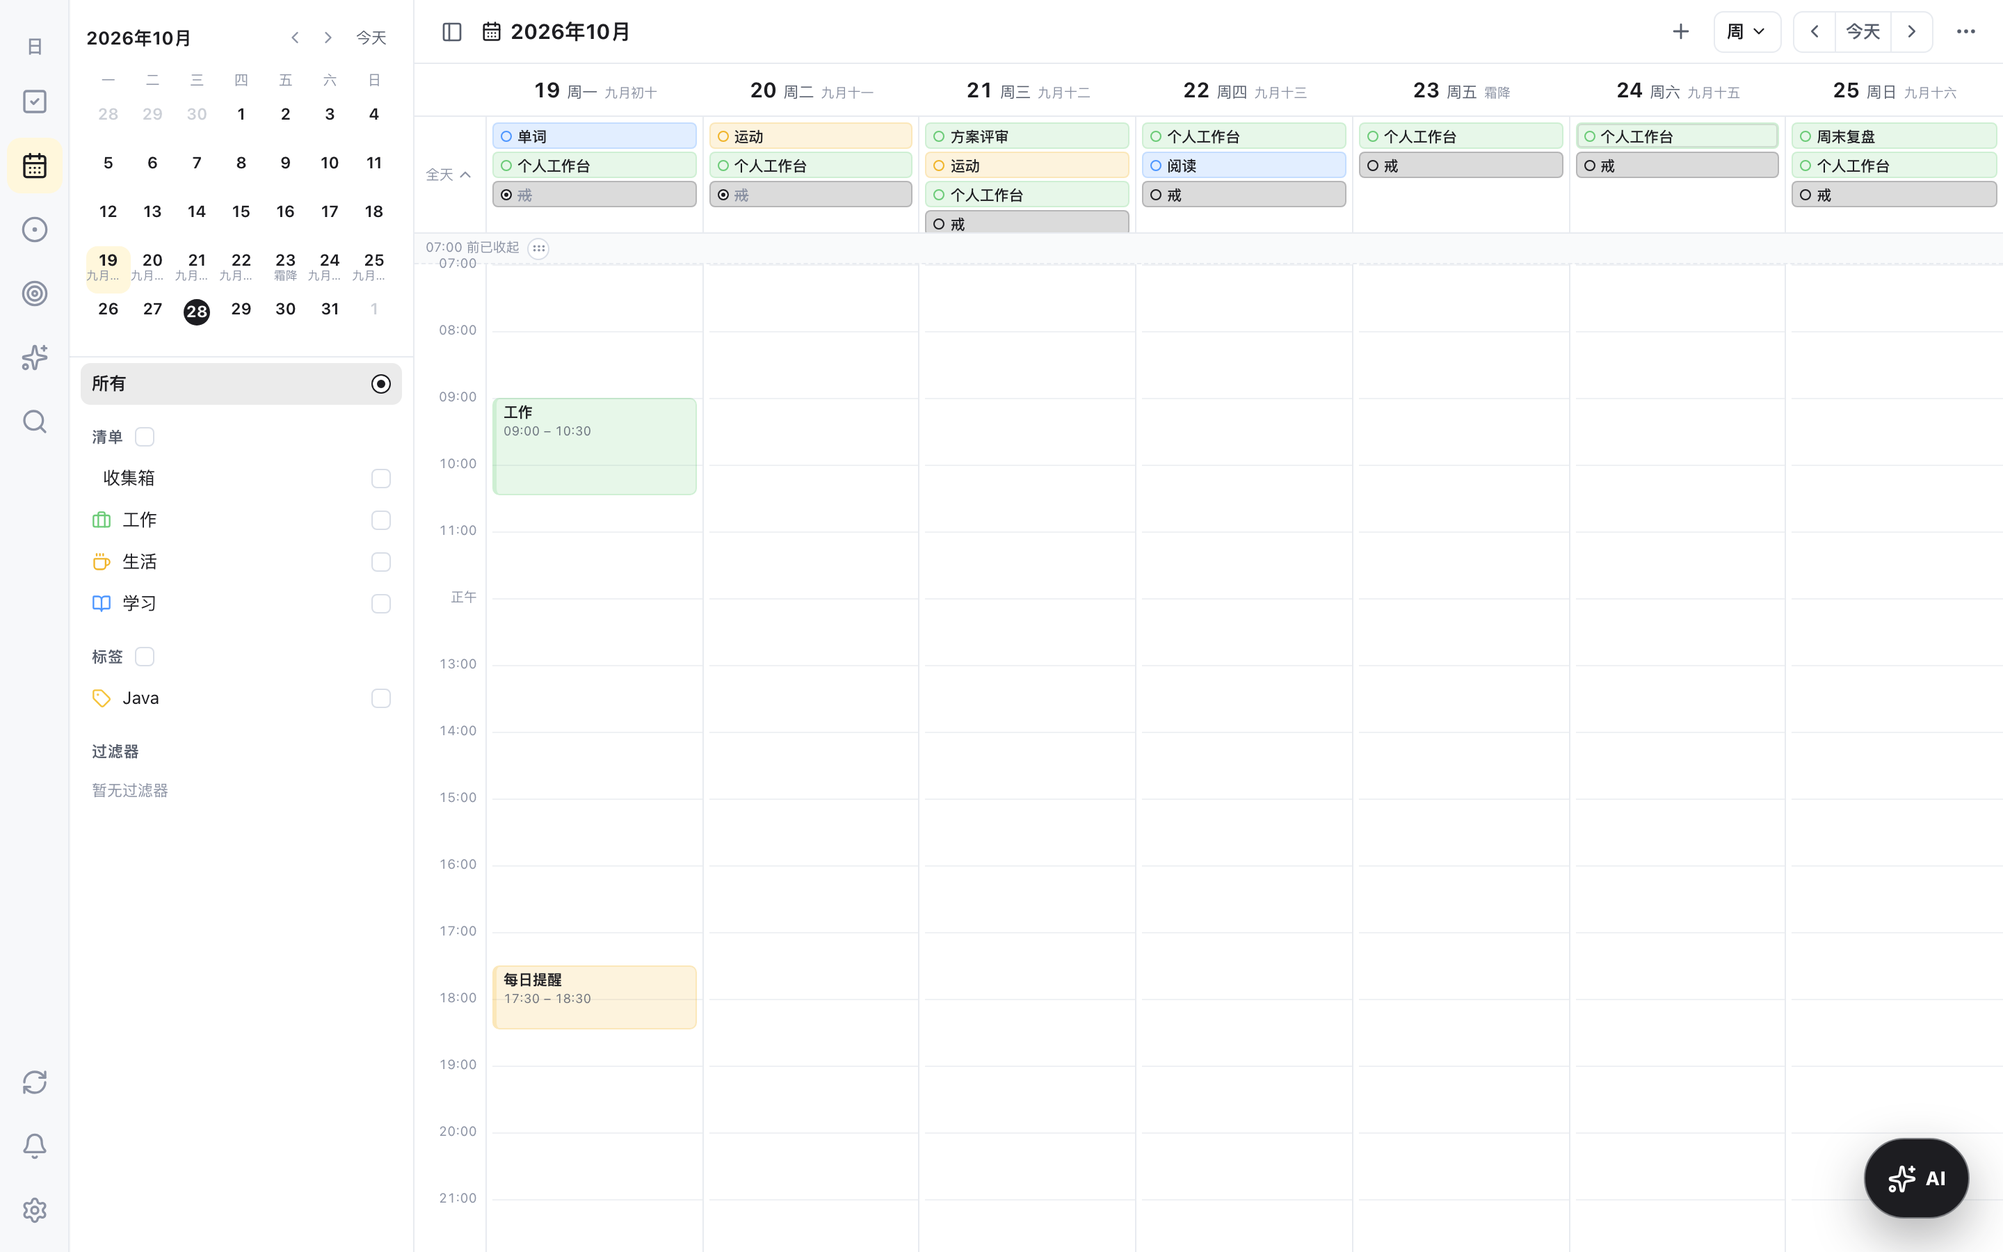
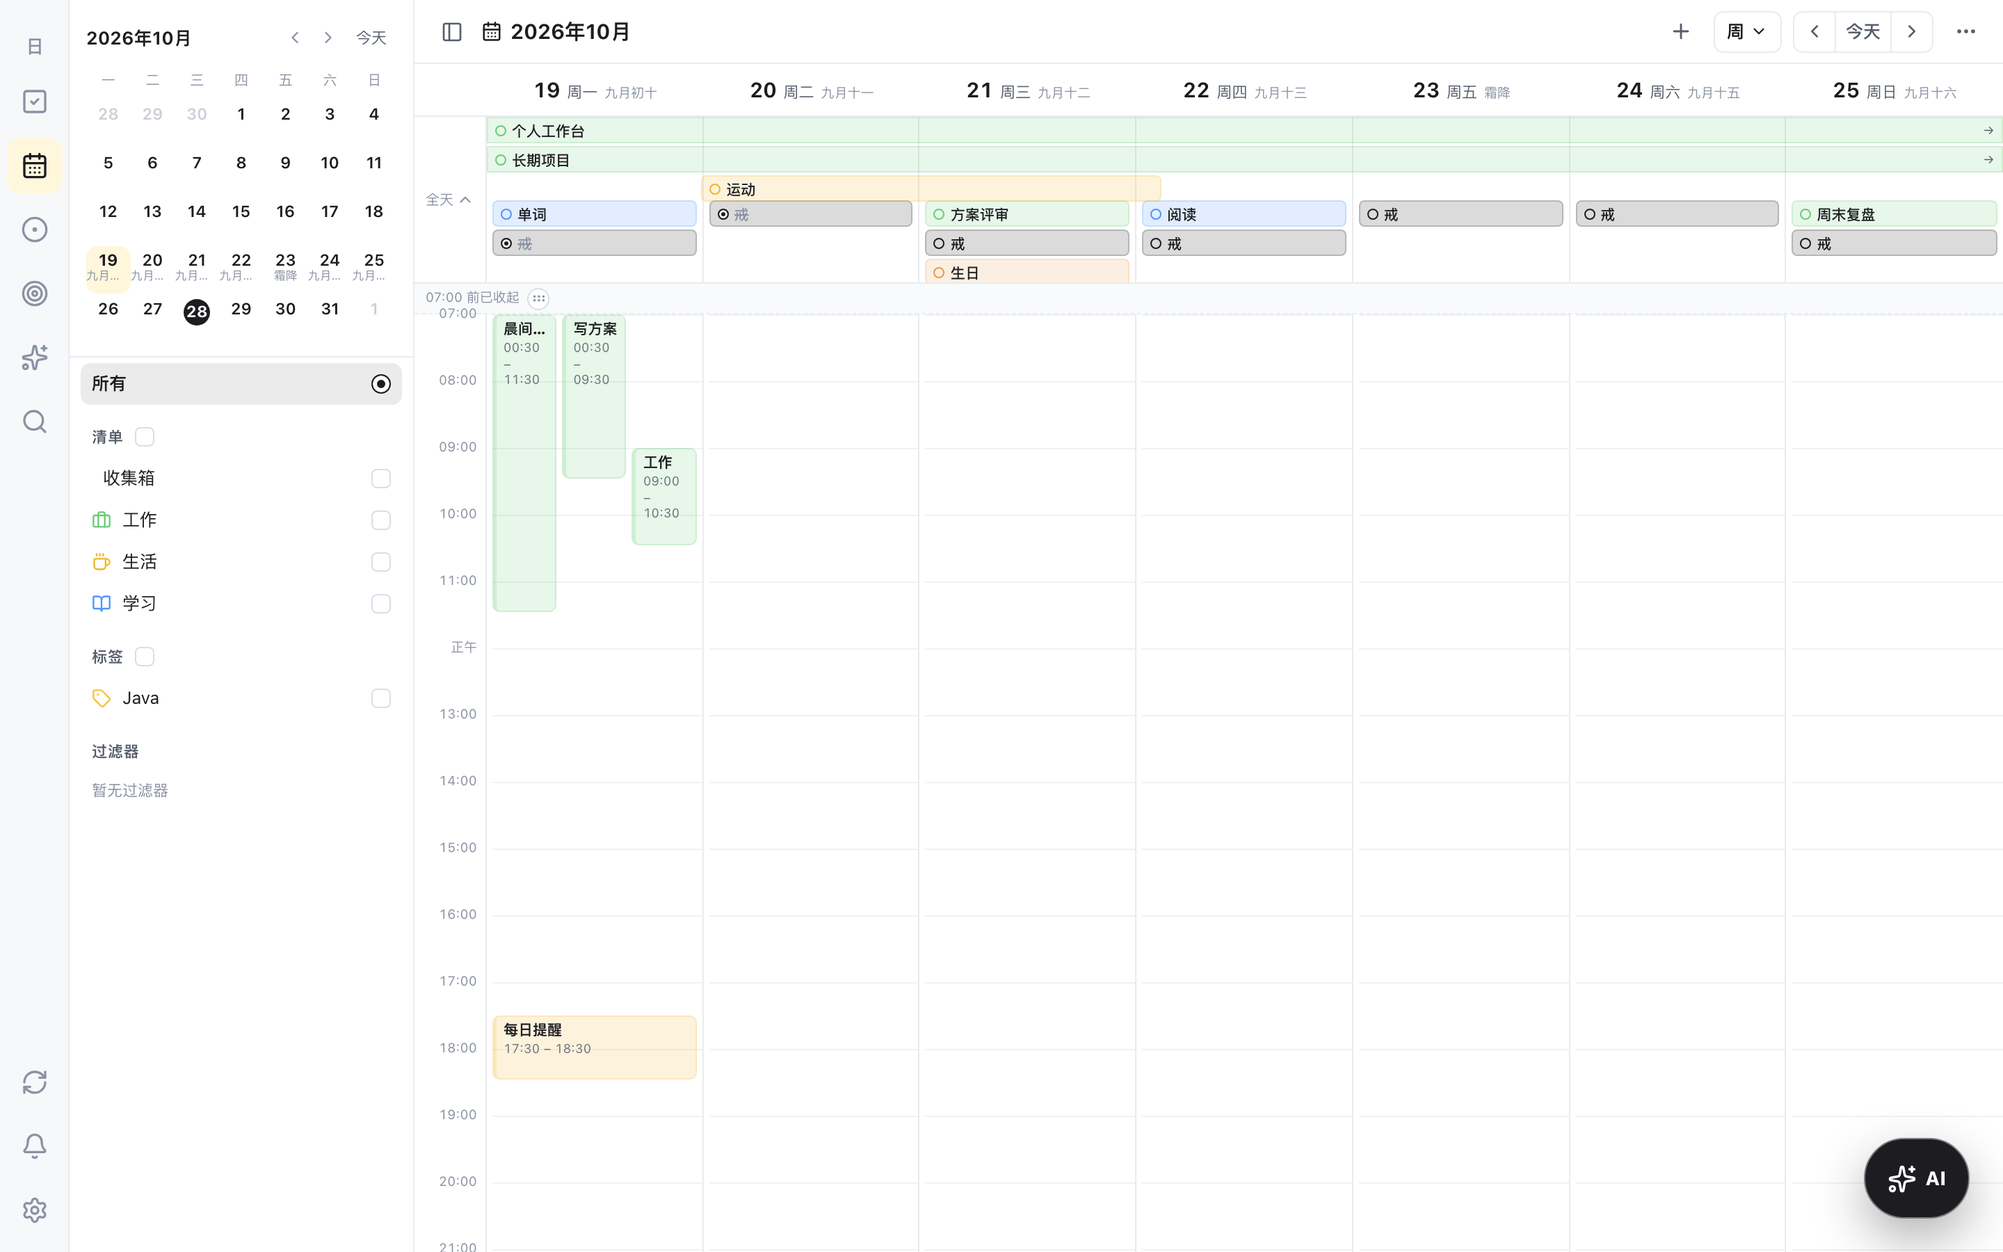
fix(calendar): 修复时间轴块与全天区重叠
- 整日对齐的跨天有刻任务（起止 00:00、时长≥23h）提升为全天跨度，不再占用时间轴
- 全天区改用泳道连续横条，多日任务不再按天重复、列内预留泳道高度
- 时间块过滤非法起始分钟，避免拿不到列分配而整列叠加
- 隐藏时段裁切的时间块用虚线边提示；全天区默认高度 120px

diff --git a/frontend/src/views/calendar/CalendarTimeGrid.vue b/frontend/src/views/calendar/CalendarTimeGrid.vue
@@ -20,23 +20,45 @@
         <span>全天</span>
         <ChevronDown v-if="allDayCollapsed" :size="13" /><ChevronUp v-else :size="13" />
       </button>
-      <div v-show="!allDayCollapsed" class="cal-allday-cols" :style="colsStyle">
-        <div v-for="day in days" :key="`allday-${toDateKey(day)}`" class="cal-allday-col">
+      <div v-show="!allDayCollapsed" class="cal-allday-body">
+        <div class="cal-allday-cols" :style="colsStyle">
+          <div v-for="day in days" :key="`allday-${toDateKey(day)}`" class="cal-allday-col" :style="{ paddingTop: `${laneHeight}px` }">
+            <button
+              v-for="event in allDayOf(day)"
+              :key="event.id"
+              type="button"
+              class="cal-allday-item"
+              :class="[`kind-${event.kind}`, { 'is-done': event.done }]"
+              :style="tintStyle(event.color, 16)"
+              :title="event.title"
+              @click.stop="$emit('open-event', event, $event)"
+            >
+              <span class="cal-ev-dot" :class="{ 'is-done': event.done }" :style="{ borderColor: event.color }"></span>
+              <span class="cal-ev-title">{{ event.title }}</span>
+              <span v-if="event.openChecklist" class="cal-ev-extra">+{{ event.openChecklist }}</span>
+            </button>
+            <p v-if="!allDayOf(day).length && !laneRows.length" class="cal-allday-empty">—</p>
+          </div>
+        </div>
+        <div class="cal-allday-lanes" :style="{ gridTemplateRows: `repeat(${Math.max(laneRows.length, 1)}, 19px)` }">
           <button
-            v-for="event in allDayOf(day)"
-            :key="event.id"
+            v-for="segment in laneSegments"
+            :key="`lane-${segment.id}`"
             type="button"
-            class="cal-allday-item"
-            :class="[`kind-${event.kind}`, { 'is-done': event.done }]"
-            :style="tintStyle(event.color, 16)"
-            :title="event.title"
-            @click.stop="$emit('open-event', event, $event)"
+            class="cal-allday-lane"
+            :class="{ 'is-done': segment.event.done, 'continues-before': segment.continuesBefore, 'continues-after': segment.continuesAfter }"
+            :style="{
+              gridRow: laneIndex[segment.id] + 1,
+              gridColumn: `${segment.startCol + 1} / ${segment.endCol + 2}`,
+              ...tintStyle(segment.event.color, 16)
+            }"
+            :title="segment.event.title"
+            @click.stop="$emit('open-event', segment.event, $event)"
           >
-            <span class="cal-ev-dot" :class="{ 'is-done': event.done }" :style="{ borderColor: event.color }"></span>
-            <span class="cal-ev-title">{{ event.title }}</span>
-            <span v-if="event.openChecklist" class="cal-ev-extra">+{{ event.openChecklist }}</span>
+            <span class="cal-ev-dot" :class="{ 'is-done': segment.event.done }" :style="{ borderColor: segment.event.color }"></span>
+            <span class="cal-ev-title">{{ segment.event.title }}</span>
+            <span v-if="segment.continuesAfter" class="cal-ev-extra">→</span>
           </button>
-          <p v-if="!allDayOf(day).length" class="cal-allday-empty">—</p>
         </div>
       </div>
       <div v-if="!allDayCollapsed" class="cal-allday-resize" role="separator" aria-label="拖动调整全天区高度" @pointerdown="startResizeAllDay"></div>
@@ -65,7 +87,14 @@
             :key="`block-${block.event.id}`"
             type="button"
             class="cal-block"
-            :class="[`kind-${block.event.kind}`, { 'is-done': block.event.done, 'is-short': block.geometry.height < 34, 'continues-before': block.event.continuesBefore, 'continues-after': block.event.continuesAfter }]"
+            :class="[`kind-${block.event.kind}`, {
+              'is-done': block.event.done,
+              'is-short': block.geometry.height < 34,
+              'is-clipped-top': block.geometry.clippedStart,
+              'is-clipped-bottom': block.geometry.clippedEnd,
+              'continues-before': block.event.continuesBefore,
+              'continues-after': block.event.continuesAfter
+            }]"
             :style="blockStyle(block)"
             :title="blockTitle(block.event)"
             @click.stop="$emit('open-event', block.event, $event)"
@@ -92,6 +121,7 @@
 import { computed, onBeforeUnmount, onMounted, ref } from 'vue'
 import { ChevronDown, ChevronUp, GripHorizontal, Timer } from 'lucide-vue-next'
 import { formatWeekday, toDateKey } from './calendarRange.js'
+import { packWeekLanes } from './calendarLanes.js'
 import { tintStyle } from './calendarColors.js'
 import {
   MINUTES_PER_DAY, blockGeometry, hourMarks, layoutColumns, minutesToLabel, snapMinutes, visibleWindow
@@ -129,6 +159,15 @@ const nowVisible = computed(() => nowMinutes.value >= viewWindow.value.start && 
 const nowTop = computed(() => ((nowMinutes.value - viewWindow.value.start) / 60) * props.hourHeight)
 
 const buckets = computed(() => props.days.map(day => props.byDay.get(toDateKey(day)) || { allDay: [], timed: [] }))
+const lanePack = computed(() => packWeekLanes(props.days, props.byDay))
+const laneRows = computed(() => lanePack.value.lanes)
+const laneSegments = computed(() => lanePack.value.segments)
+const laneHeight = computed(() => lanePack.value.laneHeight)
+const laneIndex = computed(() => {
+  const map = {}
+  laneRows.value.forEach((lane, index) => lane.forEach(item => { map[item.id] = index }))
+  return map
+})
 const layouts = computed(() => buckets.value.map(bucket => layoutColumns(bucket.timed)))
 
 function weekdayLabel(day) {
@@ -142,14 +181,16 @@ function subLabel(day) {
 
 function allDayOf(day) {
   const index = props.days.findIndex(item => toDateKey(item) === toDateKey(day))
-  return index === -1 ? [] : buckets.value[index].allDay
+  if (index === -1) return []
+  const laneIds = lanePack.value.laneIds
+  return buckets.value[index].allDay.filter(item => !laneIds.has(item.id))
 }
 
 function blocksOf(day) {
   const index = props.days.findIndex(item => toDateKey(item) === toDateKey(day))
   if (index === -1) return []
   const layout = layouts.value[index]
-  return buckets.value[index].timed.map(event => {
+  return buckets.value[index].timed.filter(event => Number.isFinite(Number(event.startMinutes))).map(event => {
     const geometry = blockGeometry(event.startMinutes, event.endMinutes, viewWindow.value, props.hourHeight)
     const slot = layout.get(event.id) || { column: 0, columns: 1 }
     return { event, geometry, column: slot.column, columns: slot.columns }
@@ -307,10 +348,15 @@ onBeforeUnmount(() => { window.clearInterval(ticker) })
 .cal-allday-toggle:hover {
   color: var(--ink);
 }
-.cal-allday-cols {
-  display: grid;
+.cal-allday-body {
+  position: relative;
   flex: 1 1 auto;
   min-width: 0;
+  overflow: hidden;
+}
+.cal-allday-cols {
+  display: grid;
+  height: 100%;
 }
 .cal-allday-col {
   display: flex;
@@ -319,7 +365,47 @@ onBeforeUnmount(() => { window.clearInterval(ticker) })
   gap: 2px;
   padding: 4px 4px 2px;
   border-right: 1px solid var(--line);
-  overflow-y: auto;
+  overflow: hidden;
+}
+.cal-allday-lanes {
+  position: absolute;
+  inset: 0;
+  display: grid;
+  gap: 2px 0;
+  pointer-events: none;
+}
+.cal-allday-lane {
+  display: flex;
+  align-items: center;
+  gap: 4px;
+  min-width: 0;
+  height: 19px;
+  margin: 0 4px;
+  padding: 0 5px;
+  border: 1px solid transparent;
+  border-radius: 4px;
+  color: var(--ink);
+  font-size: 10.5px;
+  line-height: 1;
+  pointer-events: auto;
+  text-align: left;
+}
+.cal-allday-lane:hover {
+  box-shadow: inset 0 0 0 1px color-mix(in srgb, var(--ink) 12%, transparent);
+}
+.cal-allday-lane.is-done .cal-ev-title {
+  color: var(--muted);
+  text-decoration: line-through;
+}
+.cal-allday-lane.continues-before {
+  margin-left: 0;
+  border-top-left-radius: 0;
+  border-bottom-left-radius: 0;
+}
+.cal-allday-lane.continues-after {
+  margin-right: 0;
+  border-top-right-radius: 0;
+  border-bottom-right-radius: 0;
 }
 .cal-allday-col:last-child {
   border-right: 0;
@@ -490,6 +576,22 @@ onBeforeUnmount(() => { window.clearInterval(ticker) })
 }
 .cal-block.is-done .cal-block-title {
   text-decoration: line-through;
+}
+.cal-block.is-clipped-top {
+  border-top-style: dashed;
+  border-top-color: color-mix(in srgb, var(--ink) 22%, transparent);
+}
+.cal-block.is-clipped-bottom {
+  border-bottom-style: dashed;
+  border-bottom-color: color-mix(in srgb, var(--ink) 22%, transparent);
+}
+.cal-block.is-clipped-top {
+  border-top-style: dashed;
+  border-top-color: color-mix(in srgb, var(--ink) 22%, transparent);
+}
+.cal-block.is-clipped-bottom {
+  border-bottom-style: dashed;
+  border-bottom-color: color-mix(in srgb, var(--ink) 22%, transparent);
 }
 .cal-block.continues-before {
   border-top-left-radius: 0;

diff --git a/frontend/src/views/calendar/calendarEvents.test.js b/frontend/src/views/calendar/calendarEvents.test.js
@@ -212,3 +212,33 @@ test('任务日历不传工时与流水时不产生对应条目', () => {
   assert.equal(dayEvents(result, '2026-10-19').allDay.length, 0)
   assert.equal(dayEvents(result, '2026-10-19').timed.length, 0)
 })
+
+test('整日对齐的多日有刻任务进入全天区而不是时间轴', () => {
+  const result = buildCalendarEvents({
+    days, lists, tags,
+    tasks: [{ publicId: 'span', title: '长期项目', allDay: false, startAt: '2026-10-19T00:00:00', dueAt: '2026-10-21T00:00:00', listId: 'list-work', status: 'OPEN' }]
+  })
+  assert.equal(dayEvents(result, '2026-10-19').allDay.length, 1)
+  assert.equal(dayEvents(result, '2026-10-20').allDay.length, 1)
+  assert.equal(dayEvents(result, '2026-10-19').timed.length, 0)
+  assert.equal(dayEvents(result, '2026-10-19').allDay[0].promoted, true)
+})
+
+test('单日 00:00–23:59 的有刻任务按全天处理', () => {
+  const result = buildCalendarEvents({
+    days, lists, tags,
+    tasks: [{ publicId: 'whole', title: '整日', allDay: false, startAt: '2026-10-19T00:00:00', dueAt: '2026-10-19T23:59:00', status: 'OPEN' }]
+  })
+  assert.equal(dayEvents(result, '2026-10-19').allDay.length, 1)
+  assert.equal(dayEvents(result, '2026-10-19').timed.length, 0)
+})
+
+test('跨夜但有实际时刻的任务仍留在时间轴并裁切', () => {
+  const result = buildCalendarEvents({
+    days, lists, tags,
+    tasks: [{ publicId: 'night', title: '加班', allDay: false, startAt: '2026-10-19T22:00:00', dueAt: '2026-10-20T02:00:00', status: 'OPEN' }]
+  })
+  assert.equal(dayEvents(result, '2026-10-19').allDay.length, 0)
+  assert.equal(dayEvents(result, '2026-10-19').timed.length, 1)
+  assert.equal(dayEvents(result, '2026-10-19').timed[0].promoted, false)
+})

diff --git a/frontend/src/views/calendar/calendarEvents.js b/frontend/src/views/calendar/calendarEvents.js
@@ -22,6 +22,17 @@ export function habitScheduledOn(habit, date) {
   return true
 }
 
+/** 整日对齐（00:00 起、00:00 或 23:59 止）且跨度接近整天的有刻任务，实际是跨天任务，应放进全天区。 */
+export function spansWholeDays(window) {
+  if (!window || window.allDay) return false
+  const { start, end } = window
+  if (start.getHours() !== 0 || start.getMinutes() !== 0) return false
+  const duration = end.getTime() - start.getTime()
+  if (duration >= 23 * 3600 * 1000) return true
+  const endsAtMidnight = end.getHours() === 0 && end.getMinutes() === 0
+  return endsAtMidnight && toDateKey(start) !== toDateKey(end)
+}
+
 export function taskWindow(task) {
   const startRaw = task?.startAt || task?.dueAt
   if (!startRaw) return null
@@ -109,9 +120,9 @@ export function buildCalendarEvents(options = {}) {
       id: task.publicId, kind: EVENT_KINDS.TASK, title: task.title || '(无标题)', color,
       priority: task.priority || 'NONE', listId: task.listId, tagIds: task.tagIds || [],
       done: task.status === 'COMPLETED', recurring: isRecurring(task), openChecklist, task,
-      startKey, endKey, allDay: window.allDay
+      startKey, endKey, allDay: window.allDay, promoted: spansWholeDays(window)
     }
-    if (window.allDay) {
+    if (window.allDay || spansWholeDays(window)) {
       for (const key of enumerateKeys(startKey, endKey)) {
         if (!inRange(key)) continue
         byDay.get(key).allDay.push({ ...base, spanStart: key === startKey, spanEnd: key === endKey })

diff --git a/frontend/src/views/TasksCalendarView.vue b/frontend/src/views/TasksCalendarView.vue
@@ -330,7 +330,7 @@ let currentBucket = typeof window !== 'undefined' ? widthBucket(window.innerWidt
 const narrow = ref(currentBucket !== 'wide')
 const collapsedManual = ref(null)
 const cellHeight = ref(120)
-const timePrefs = reactive({ hiddenTop: 420, hiddenBottom: 1380, allDayHeight: 84, allDayCollapsed: false })
+const timePrefs = reactive({ hiddenTop: 420, hiddenBottom: 1380, allDayHeight: 120, allDayCollapsed: false })
 const collapsed = computed(() => collapsedManual.value ?? narrow.value)
 
 const calendarLists = computed(() => tasksStore.lists.filter(item => !item.archived))

diff --git a/frontend/src/views/calendar/calendarTimeGrid.js b/frontend/src/views/calendar/calendarTimeGrid.js
@@ -101,7 +101,7 @@ export function hourMarks(window, stepMinutes = 60) {
 }
 
 /** 全天区默认高度与拖拽边界（与截图中的可上提/下拉区域一致）。 */
-export const ALL_DAY_HEIGHT = { min: 32, max: 260, default: 84 }
+export const ALL_DAY_HEIGHT = { min: 32, max: 280, default: 120 }
 
 export function clampAllDayHeight(value) {
   return clamp(Number(value) || ALL_DAY_HEIGHT.default, ALL_DAY_HEIGHT.min, ALL_DAY_HEIGHT.max)

diff --git a/docs/Phase2-前端改造.md b/docs/Phase2-前端改造.md
@@ -1292,3 +1292,15 @@ V41 新增清单视图类型（LIST/KANBAN/TIMELINE）、对象类型（TASK/NOT
 - 交互：点击空白时段按 15 分钟吸附并发起快速添加，日期标题带具体时刻（如「10月19日，今天, 17:45」），保存为 30 分钟的有刻任务；点击块进入对象详情/打卡页。
 - 修复：组件内 `const window = computed(...)` 会遮蔽全局 `window`，导致 `setInterval/addEventListener` 抛错；已重命名 `viewWindow`。全天区列网格误用带 52px 沟槽的模板导致错位，改用独立 `colsStyle`。
 - 门禁：287/287 Node 测试、typecheck、api:check、build 通过；浏览器实测日/周视图布局、隐藏时段拖拽（07:00 → 09:00）、全天区折叠、点击建块与落库均正常，控制台无错误。
+
+### P2-CAL3.1 修复时间轴重叠（2026-10-28）
+
+用户反馈周视图出现块与块、块与全天条目互相压字。定位到三类原因，逐条修掉：
+
+- **整日对齐的有刻任务被当成时间轴块**：跨月的「个人工作台」在库里是 `allDay=false` 且 `startAt/dueAt` 都是 00:00，旧逻辑按有刻任务逐天塞进时间轴，产生一条覆盖整列、压住其他块的透明方块。新增 `spansWholeDays()`：起点为 00:00 且时长 ≥23 小时、或终点为 00:00 且跨日期时，按全天跨度处理（`promoted` 标记），进入全天区。
+- **全天区多日任务按天重复**：`CalendarTimeGrid` 的全天区改为先跑 `packWeekLanes` 压成连续横条（跨列 `grid-column`、延续端去圆角并显示 `→`），单元格列表剔除已上泳道的条目，列内用 `padding-top` 预留泳道高度；全天区默认高度从 84px 提到 120px（上限 280px），避免泳道挤掉条目。
+- **时间块缺少防御**：`blocksOf` 过滤掉 `startMinutes` 非法的条目，避免它们拿不到列分配而按整列宽度叠在别人身上。
+- 附带：时间块因隐藏时段被裁切的上下边改为虚线描边，提示还有内容在窗口外。
+- 单测：`calendarEvents` 新增 3 条（多日整日有刻任务进入全天区、单日 00:00–23:59 按全天、22:00–02:00 仍是时间轴块）。
+- 复现与验收：临时账号补了「长期项目」（10/1–10/31，allDay=false）+「晨间例会」（00:30–11:30）+「写方案」（00:30–09:30）；修复后三者分别为全天泳道、两个并排时间块，`getBoundingClientRect` 重叠检测为 0。证据 `docs/evidence/calendar-week-timeline-desktop-20261028.png`。
+- 门禁：290/290 Node 测试、build 通过。

diff --git a/docs/前端手工检查清单.md b/docs/前端手工检查清单.md
@@ -2094,3 +2094,11 @@
 
 - 时间块暂不支持拖动改时间、拖边改时长（B4 与拖拽建块一起做）。
 - 全天区与时间轴之间的拖动只在桌面端验证，触控端沿用同一套 pointer 事件，待后续真机确认。
+
+### 2026-10-28 P2-CAL3.1 时间轴重叠修复
+
+- [x] 跨月的整日有刻任务（allDay=false、起止 00:00）不再出现在时间轴，改为全天区一条连续横条，右侧带 `→` 表示延伸。
+- [x] 同一时段重叠的两个有刻任务并排显示（各约半列宽），文字不再互相覆盖；三个重叠时三列等分。
+- [x] 全天区同时存在 2–3 条泳道时，列内条目自动下移，条目不压泳道；默认高度 120px，可继续下拉。
+- [x] 22:00–次日 02:00 的跨夜任务仍留在时间轴，两天各一段并带虚线边。
+- 证据：`docs/evidence/calendar-week-timeline-desktop-20261028.png`；DOM 重叠检测脚本输出 0 处重叠。

diff --git a/docs/日历视图复刻计划.md b/docs/日历视图复刻计划.md
@@ -44,7 +44,7 @@
 
 ### B3 单日/多日时间轴 ✅ 2026-10-28
 
-全天区（可折叠、下拉拖拽调高）、0–24 时间轴（默认收起 00:00–07:00 与 23:00–24:00，上下沿可拖拽调整并持久化）、时间块（重叠自动分列、短块横排、左侧色条）、专注块、当前时间线、跨天有刻事件的裁切与虚线「续」标记、点击空白时段按 15 分钟吸附直接新建带时间的任务。
+全天区（可折叠、下拉拖拽调高）、0–24 时间轴（默认收起 00:00–07:00 与 23:00–24:00，上下沿可拖拽调整并持久化）、时间块（重叠自动分列、短块横排、左侧色条；整日对齐的跨天任务提升到全天区，不再占用时间轴）、专注块、当前时间线、跨天有刻事件的裁切与虚线「续」标记、点击空白时段按 15 分钟吸附直接新建带时间的任务。
 
 ### B4 快速添加四种入口
 
